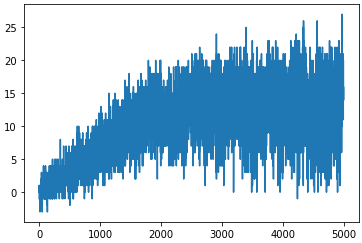
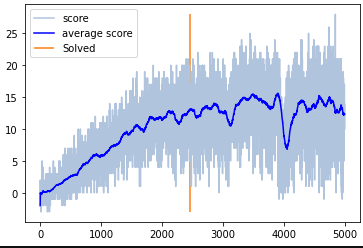
adding a track of when the model learns the goal

diff --git a/joe_agents/dqn_agent.py b/joe_agents/dqn_agent.py
@@ -7,6 +7,8 @@ import torch.optim as optim
 
 from tqdm import tqdm
 
+from collections import deque
+
 from joe_agents.e_greedy_policy import EGreedyPolicy
 from joe_agents.er_buffer import ExperienceReplayBuffer
 from joe_agents.prioritized_er_buffer import PrioritizedExperienceReplayBuffer
@@ -167,6 +169,8 @@ class DqnAgent:
         # go ahead and train
         global_steps = 0
         scores = []
+        score_window = deque(maxlen=100)
+        avg_scores = []
         epsilons = []
         batch_reward_sums = []
         batch_buffer_len = []
@@ -239,6 +243,8 @@ class DqnAgent:
 
             # log the performance and training characteristics
             scores.append(score)
+            score_window.append(score)
+            avg_scores.append(np.mean(score_window))
             epsilons.append(e_greedy.epsilon)
             
             # decay epsilon between episodes at the specified rate
@@ -246,7 +252,7 @@ class DqnAgent:
                 e_greedy.epsilon = max(min_epsilon, e_greedy.epsilon * epsilon_decay)
 
         # return training history
-        return scores, epsilons, buffer_stats
+        return scores, avg_scores, epsilons, buffer_stats
 
 
     def act(self, state) -> int:
